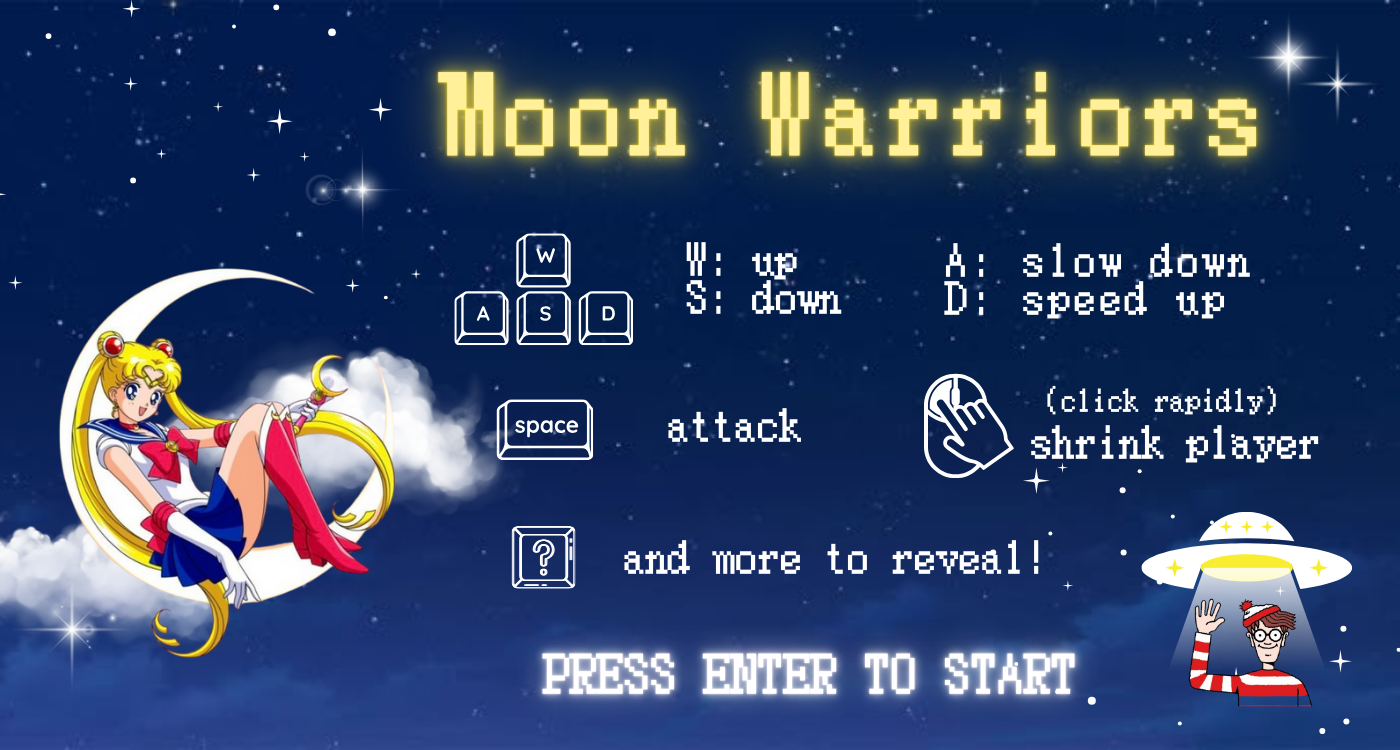
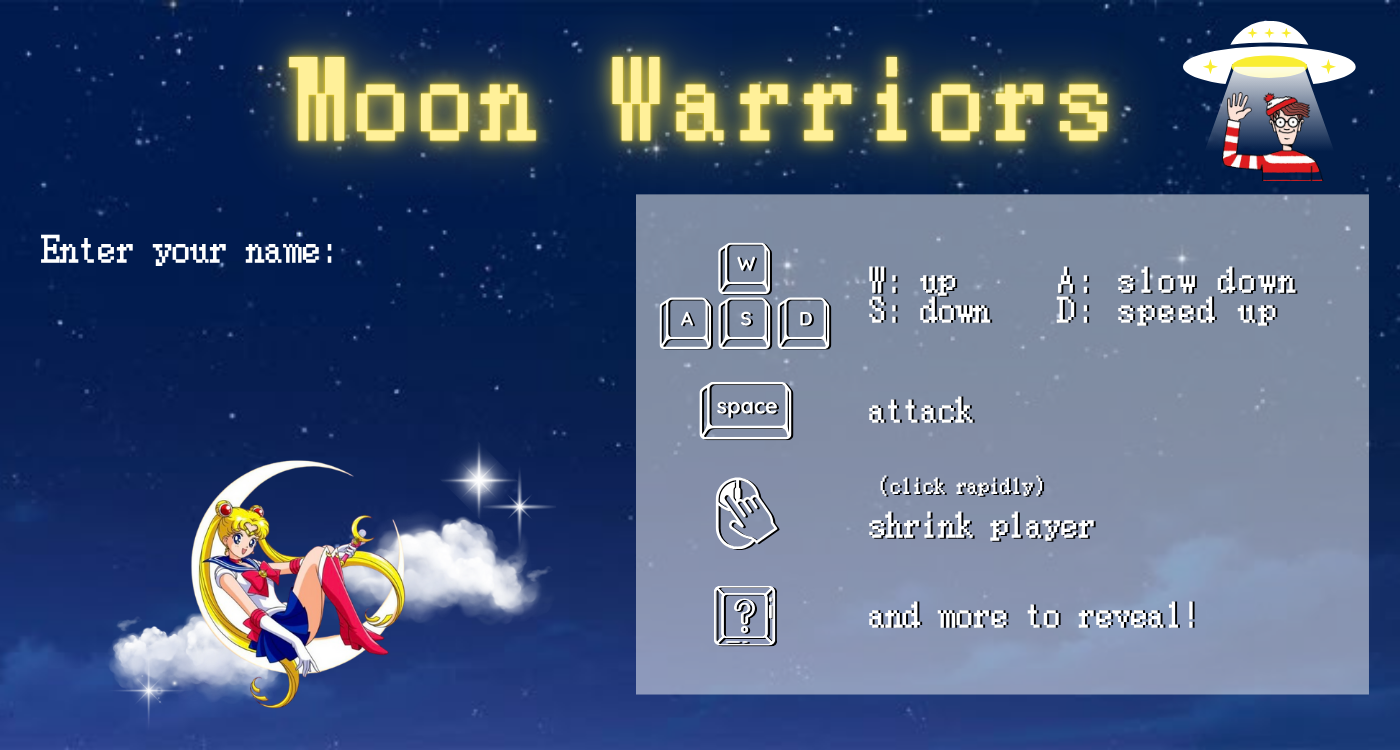
startpage

diff --git a/main.py b/main.py
@@ -11,7 +11,8 @@ import json
 
 #初始化、載入圖片
 def InitGame():
-    global font, screen, bg_img, cloud_images, clouds, projectiles, player, monsters, WIDTH, HEIGHT, start_page, player_name, greeny, success_images, fail_images, moon_warriors_score
+    global font, screen, bg_img, cloud_images, clouds, projectiles, player, monsters, WIDTH, HEIGHT, start_page
+    global vic_img, greeny, success_images, fail_images, moon_warriors_score, leaderboard_img
     
     # 初始化 Pygame
     pygame.init()
@@ -30,6 +31,8 @@ def InitGame():
     bg_img = pygame.image.load("assets/background.jpeg")
     bg_img = pygame.transform.scale(bg_img, (WIDTH, HEIGHT))
     start_page = pygame.image.load("assets/start.png")
+    vic_img = pygame.image.load("assets/victory.png")
+    leaderboard_img = pygame.image.load("assets/leaderboard.png")
 
     # 載入雲朵圖片（兩種）
     cloud_images = [
@@ -103,55 +106,39 @@ def InitGame():
 
 #操作教學、輸入名字
 def StartPage():
-    global player_name
-    screen.blit(start_page, (0, 0))
-    # 玩家輸入名稱
-    player_name = input_player_name()
-    
-# 玩家輸入名稱
-def input_player_name():
-    name = ""
-    active = True
-    input_rect = pygame.Rect(200, 200, 400, 50)
+    global name, is_in_game
+    input_rect = pygame.Rect(50, 300, 400, 50)
     color_active = pygame.Color('lightskyblue3')
-    font_input = pygame.font.Font(None, 48)
 
-    while active:
+    while is_in_game == 0:
+        screen.blit(start_page, (0, 0))
+
         for event in pygame.event.get():
             if event.type == pygame.QUIT:
                 pygame.quit()
-                exit()
+                sys.exit()
 
             elif event.type == pygame.KEYDOWN:
                 if event.key == pygame.K_RETURN:
-                    active = False  # 輸入完成
+                    is_in_game = 1  # 名字輸入完畢，進入遊戲
                 elif event.key == pygame.K_BACKSPACE:
-                    name = name[:-1]  # 刪除最後一個字
-                else:
-                    if len(name) < 20:  # 最多20個字
-                        name += event.unicode  # 加入輸入的字元
+                    name = name[:-1]
+                elif len(name) < 20 and event.unicode.isprintable():
+                    name += event.unicode
 
-        screen.fill((0, 0, 0))
-        prompt = font_input.render("Enter your name:", True, (255, 255, 255))
-        screen.blit(prompt, (200, 150))
-
-        txt_surface = font_input.render(name, True, (255, 255, 255))
-        width = max(400, txt_surface.get_width() + 10)
-        input_rect.w = width
+        # 畫輸入框和文字
+        txt_surface = font.render(name, True, (255, 255, 255))
         pygame.draw.rect(screen, color_active, input_rect, 2)
         screen.blit(txt_surface, (input_rect.x + 5, input_rect.y + 5))
 
         pygame.display.flip()
         pygame.time.delay(30)
-
-    pygame.time.delay(10)
-    return name if name else "Player"
     
 #重置數據  
 def ResetGame():
     global attack_timer, transition_timer, flickering_timer, mouse_timer
     global chapter, current_monster, phase, start_page, running, float_timer, willy, is_in_game
-    global start_time, end_time, find_willy
+    global start_time, end_time, find_willy, name, ending
 
     attack_timer = 0
     transition_timer = 0
@@ -165,10 +152,12 @@ def ResetGame():
     willy = 0
     is_in_game = 0
     find_willy = 0
+    name = "Sailor Moon"
+    ending = 0
 
 def update_and_draw_game(screen):
     global chapter, float_timer, HEIGHT, WIDTH, cloud_speed, current_monster, is_in_game, willy, player
-    global start_time, end_time, find_willy
+    global start_time, end_time, find_willy, ending
     cloud_speed = 10
 
     screen.blit(bg_img, (0, 0))
@@ -282,17 +271,17 @@ def update_and_draw_game(screen):
             monsters[current_monster].draw(screen)
             draw_hp(monsters[current_monster], screen, 950, 150, 825, -30, monsters[current_monster].state_img)
             
-    #遊戲結束畫面
+    #遊戲結束
     if player.health <= 0:
-        
         end_time = time.time()
         is_in_game = 2
-        #gameover()
+        ending = 0      #lose
 
     if monsters[9].health <= 0:
         end_time = time.time()
-        is_in_game = 3
-        #gameover()
+        is_in_game = 2
+        ending = 1      #victory
+        
     greeny.update_and_draw(screen)
      
 def transition_phase(cloud_speed, transition_img):
@@ -341,15 +330,17 @@ def battle_phase(monster):
 
 def lose():
     global is_in_game
+    screen.blit(monsters[current_monster].gameover, (0, 0))
     keys = pygame.key.get_pressed()
     if keys[pygame.K_RETURN]:
-        is_in_game = 0
+        is_in_game = 3
         
 def victory():
     global is_in_game
+    screen.blit(vic_img, (0, 0))
     keys = pygame.key.get_pressed()
     if keys[pygame.K_RETURN]:
-        is_in_game = 0
+        is_in_game = 3
 
 #確認打敗哪些怪獸，打敗1，沒打敗0
 def traverse_check(monsters):  
@@ -434,9 +425,7 @@ moon_warriors_score = load_scoreboard()
 
 def show_leaderboard(moon_warriors_score, start_time, end_time, find_willy, player_name):
     global player
-    # screen.fill((0, 0, 0)) # 轉換頁面 #黑色
-    title = font.render("RANKING", True, (225, 225, 0)) # 黃色
-    screen.blit(title, (450, 20))
+    screen.blit(leaderboard_img, (0, 0))
 
     # 新增玩家成績
     if not any(score["name"] == player_name for score in moon_warriors_score):
@@ -479,15 +468,12 @@ def restart_detect():
         #gameover()
         InitGame()
     else:
-        vic_img = pygame.image.load("assets/victory.png")
-        vic_img = pygame.transform.scale(vic_img, (WIDTH, HEIGHT))
-        screen.blit(vic_img, (0, 0))
+        
         results = traverse_check(monsters)
         draw_results(screen, monsters, results, success_images, fail_images)
         # show_leaderboard(moon_warriors_score, start_time, end_time, find_willy)
 
 InitGame()
-StartPage()
 ResetGame()
 
 # 遊戲主迴圈
@@ -504,10 +490,8 @@ while running:
 
     #start page, input player name
     if is_in_game == 0:
-        start_time = time.time()
         StartPage()
-        if keys[pygame.K_RETURN]:
-            is_in_game = 1
+        start_time = time.time()
     
     #game    
     elif is_in_game == 1:
@@ -515,20 +499,21 @@ while running:
     
     #victory or lose
     elif is_in_game == 2:
-        show_leaderboard(moon_warriors_score, start_time, end_time, find_willy, player_name)
-        lose()
-    
+        if ending == 0:
+            lose()
+        elif ending == 1:
+            victory()
+                
     #ranking
     elif is_in_game == 3:
-        # show_leaderboard(moon_warriors_score, start_time, end_time)
-        victory()
+        show_leaderboard(moon_warriors_score, start_time, end_time, find_willy, name)
     
     #collection    
     elif is_in_game == 4:
         # show_leaderboard(moon_warriors_score, start_time, end_time)
         restart_detect()
 
-    # draw_grid(screen, WIDTH, HEIGHT)
+    #draw_grid(screen, WIDTH, HEIGHT)
 
     pygame.display.update()
     pygame.time.delay(30)
